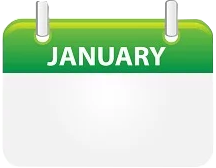
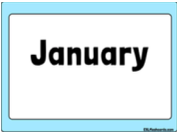
added some css for profile page and updated some images

diff --git a/plane-and-simple/src/components/ProfilePage.js b/plane-and-simple/src/components/ProfilePage.js
@@ -13,12 +13,7 @@ class ProfilePage extends Component {
       }
     }
 
-    // const weather = this.props.
-    //   displayWeather = () => {
-    //     for (let i = 0; i < this.props.cities.length; i++) {
-    //       return
-    //     }
-    //   }
+
 
     console.log(cityData)
 
@@ -31,23 +26,24 @@ class ProfilePage extends Component {
         <div className="facts-container">
           <h1 className="cit-facts">City Facts</h1>
           <h1 className="country-info"> Name: {cityData.id} , {cityData.country_id}</h1>
-          <h1>Population: {cityData.properties[0].value}</h1>
+          <h1>Population: {cityData.properties[0].value.toLocaleString()}</h1>
           <h1> Intro: {cityData.snippet} {cityData.intro} </h1>
           <div className="climate-container">
             <h2>Climate </h2>
             <div className="weather-container" >
-              <div className="weather-cell">  Max: {cityData.climate.temperature.average_max.months[0]} C Min:{cityData.climate.temperature.average_min.months[0]} C  </div>
-              <div className="weather-cell"> Max: {cityData.climate.temperature.average_max.months[1]} C Min: {cityData.climate.temperature.average_min.months[1]} C</div>
-              <div className="weather-cell"> Max: {cityData.climate.temperature.average_max.months[2]} C Min: {cityData.climate.temperature.average_min.months[2]} C </div>
-              <div className="weather-cell">  Max: {cityData.climate.temperature.average_max.months[3]} C Min:{cityData.climate.temperature.average_min.months[3]} C </div>
-              <div className="weather-cell">  Max: {cityData.climate.temperature.average_max.months[4]} C Min: {cityData.climate.temperature.average_min.months[4]} C  </div>
-              <div className="weather-cell"> Max: {cityData.climate.temperature.average_max.months[5]} C Min: {cityData.climate.temperature.average_min.months[5]} C </div>
-              <div className="weather-cell">   Max: {cityData.climate.temperature.average_max.months[6]} C Min: {cityData.climate.temperature.average_min.months[6]} C </div>
-              <div className="weather-cell">  Max: {cityData.climate.temperature.average_max.months[7]} C  Min: {cityData.climate.temperature.average_min.months[7]} C</div>
-              <div className="weather-cell">   Max: {cityData.climate.temperature.average_max.months[8]} C Min: {cityData.climate.temperature.average_min.months[8]} C </div>
-              <div className="weather-cell">  Max: {cityData.climate.temperature.average_max.months[9]} C  Min: {cityData.climate.temperature.average_min.months[9]} C</div>
-              <div className="weather-cell">  Max: {cityData.climate.temperature.average_max.months[10]}C  Min: {cityData.climate.temperature.average_min.months[10]} C </div>
-              <div className="weather-cell">   Max: {cityData.climate.temperature.average_max.months[11]} C Min: {cityData.climate.temperature.average_min.months[11]} C </div>
+
+              <div className="weather-cell"> Max: {cityData.climate.temperature.average_max.months[0].toFixed(2)} C Min:{cityData.climate.temperature.average_min.months[0].toFixed(2)} C  </div>
+              <div className="weather-cell"> Max: {cityData.climate.temperature.average_max.months[1].toFixed(2)} C Min: {cityData.climate.temperature.average_min.months[1].toFixed(2)} C</div>
+              <div className="weather-cell"> Max: {cityData.climate.temperature.average_max.months[2].toFixed(2)} C Min: {cityData.climate.temperature.average_min.months[2].toFixed(2)} C </div>
+              <div className="weather-cell">  Max: {cityData.climate.temperature.average_max.months[3].toFixed(2)} C Min:{cityData.climate.temperature.average_min.months[3].toFixed(2)} C </div>
+              <div className="weather-cell">  Max: {cityData.climate.temperature.average_max.months[4].toFixed(2)} C Min: {cityData.climate.temperature.average_min.months[4].toFixed(2)} C  </div>
+              <div className="weather-cell"> Max: {cityData.climate.temperature.average_max.months[5].toFixed(2)} C Min: {cityData.climate.temperature.average_min.months[5].toFixed(2)} C </div>
+              <div className="weather-cell">  Max: {cityData.climate.temperature.average_max.months[6].toFixed(2)} C Min: {cityData.climate.temperature.average_min.months[6].toFixed(2)} C </div>
+              <div className="weather-cell">  Max: {cityData.climate.temperature.average_max.months[7].toFixed(2)} C  Min: {cityData.climate.temperature.average_min.months[7].toFixed(2)} C</div>
+              <div className="weather-cell">  Max: {cityData.climate.temperature.average_max.months[8].toFixed(2)} C Min: {cityData.climate.temperature.average_min.months[8].toFixed(2)} C </div>
+              <div className="weather-cell">  Max: {cityData.climate.temperature.average_max.months[9].toFixed(2)} C  Min: {cityData.climate.temperature.average_min.months[9].toFixed(2)} C</div>
+              <div className="weather-cell">  Max: {cityData.climate.temperature.average_max.months[10].toFixed(2)}C  Min: {cityData.climate.temperature.average_min.months[10].toFixed(2)} C </div>
+              <div className="weather-cell">   Max: {cityData.climate.temperature.average_max.months[11].toFixed(2)} C Min: {cityData.climate.temperature.average_min.months[11].toFixed(2)} C </div>
             </div>
           </div>
 

diff --git a/plane-and-simple/src/App.css b/plane-and-simple/src/App.css
@@ -1,8 +1,23 @@
 
-.nav{
-  display: flex;
-  flex-direction: row;
+ul {
+  list-style-type: none;
+  margin: 0;
+  padding: 0;
+  overflow: hidden;
+  background-color: #444444;
 }
+
+li{
+  float: left;
+  display: block;
+  color: white;
+  padding: 14px 16px;
+  text-decoration: none;
+  font-size:30px;
+  font-family: 'Gupter', serif;
+  font-weight: bolder;
+}
+
 .landing-container{
 display:flex;
 flex-direction: row;
@@ -11,13 +26,11 @@ justify-content: space-around
 
 }
 
-
 .city-image{
   width:90%;
   object-fit: cover;
   margin:20px;
   height: 400px;
-
 }
 
 .landing-page-links{
@@ -50,6 +63,7 @@ justify-content: space-around
   color: white;
   font-size: 50px;
   text-shadow: 2px 2px black;
+  font-family: 'Gupter', serif;
 }
 
 .footer{
@@ -74,6 +88,7 @@ justify-content: space-around
 
 .profile-image {
   display: block;
+  padding: 20px;
   margin-left: auto;
   margin-right: auto;
   width: 50%;
@@ -81,7 +96,7 @@ justify-content: space-around
 
 .weather-container {
   display: grid;
-  grid-template-columns: repeat(4, 106.25px);
+  grid-template-columns: repeat(4, 150px);
   grid-gap: 15px;
   align-items: center
 }
@@ -93,12 +108,57 @@ justify-content: space-around
   text-align: center;
   vertical-align: bottom;
   font-weight: bold;
-  background-image: url("./assets/Jan.png");
-  background-size: 108px;
+  background-image: url("./assets/jan.png");
+  background-size: cover;
   background-repeat: no-repeat;
+  font-size: 20px;
+  
 }
 
-
+.weather-cell:nth-child(2){
+  background-image: url("./assets/feb.png");
+  
+}
+.weather-cell:nth-child(3){
+  background-image: url("./assets/march.png");
+  
+}
+.weather-cell:nth-child(4){
+  background-image: url("./assets/april.png");
+  
+}
+.weather-cell:nth-child(5){
+  background-image: url("./assets/may.png");
+  
+}
+.weather-cell:nth-child(6){
+  background-image: url("./assets/june.png");
+  
+}
+.weather-cell:nth-child(7){
+  background-image: url("./assets/july.png");
+  
+}
+.weather-cell:nth-child(8){
+  background-image: url("./assets/august.png");
+  
+}
+.weather-cell:nth-child(9){
+  background-image: url("./assets/sept.png");
+  
+}
+.weather-cell:nth-child(10){
+  background-image: url("./assets/oct.png");
+  
+}
+.weather-cell:nth-child(11){
+  background-image: url("./assets/nov.png");
+  
+}
+.weather-cell:nth-child(12){
+  background-image: url("./assets/dec.png");
+  
+}
 
 .error-page{
   background-image: url("./assets/bermudaTriangle.jpg");
@@ -112,10 +172,9 @@ justify-content: space-around
   color: white;
   font-size: 50px;
   text-shadow: 2px 2px black;
-  display: block;
-  margin-left: auto;
-  margin-right: auto;
-  width: 50%;
+  text-align: end;
+  position:absolute;
+  
   
 }
 

diff --git a/plane-and-simple/src/components/Nav.js b/plane-and-simple/src/components/Nav.js
@@ -4,8 +4,10 @@ import React from 'react'
 function Nav() {
   return (
     <div className="Nav">
-      <h1>Home</h1>
-      <h1>Contact Us</h1>
+      <ul>
+        <li>Home</li>
+        <li>Contact </li>
+      </ul>
     </div>
 
 

diff --git a/plane-and-simple/src/services/apiHelper.js b/plane-and-simple/src/services/apiHelper.js
@@ -20,7 +20,7 @@ export const allCities = async () => {
     return {
       name: result.data.results[0].id,
       data: result.data.results[0],
-      fulldate: result.data,
+
     }
   })
   )
